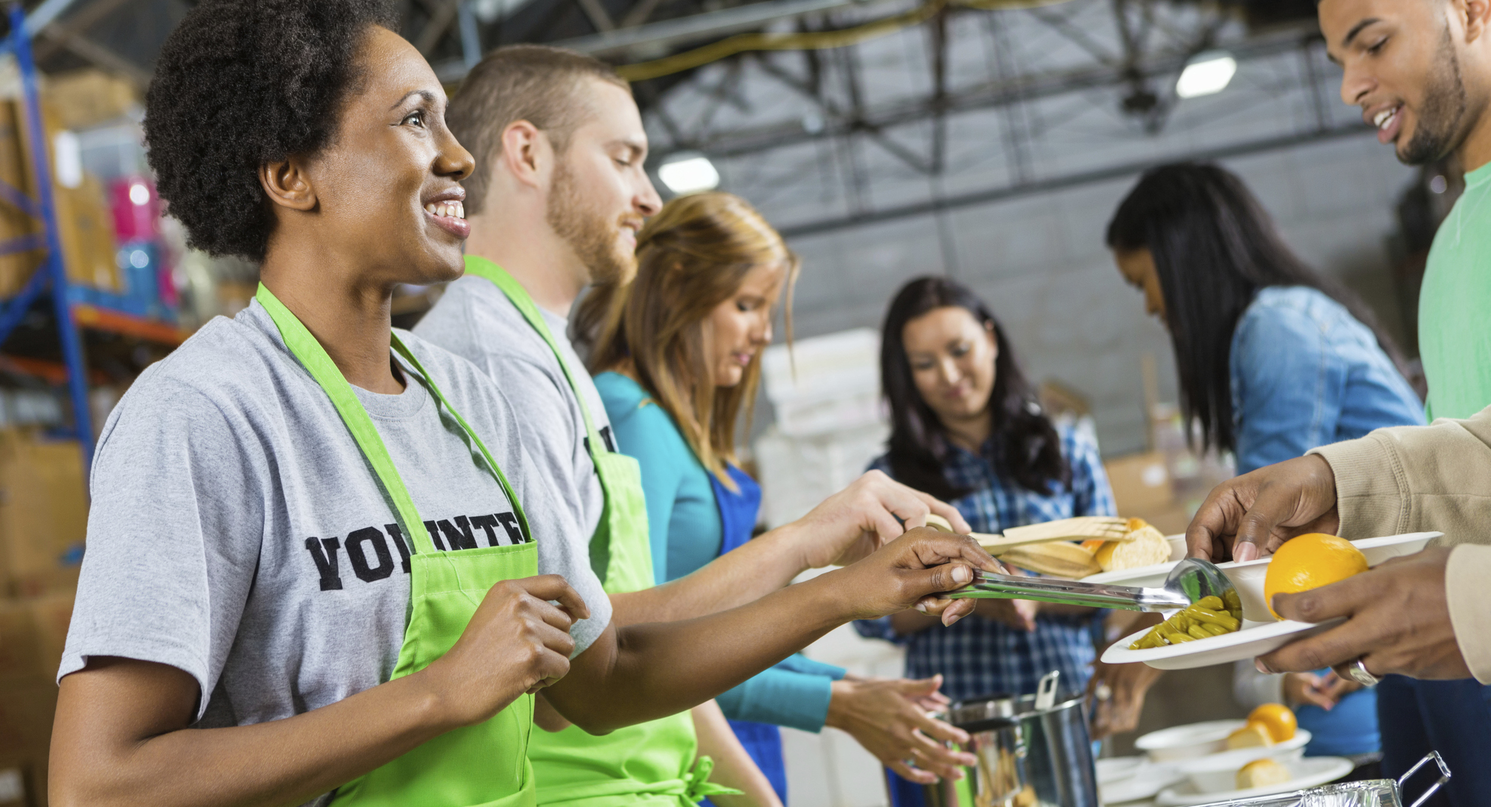
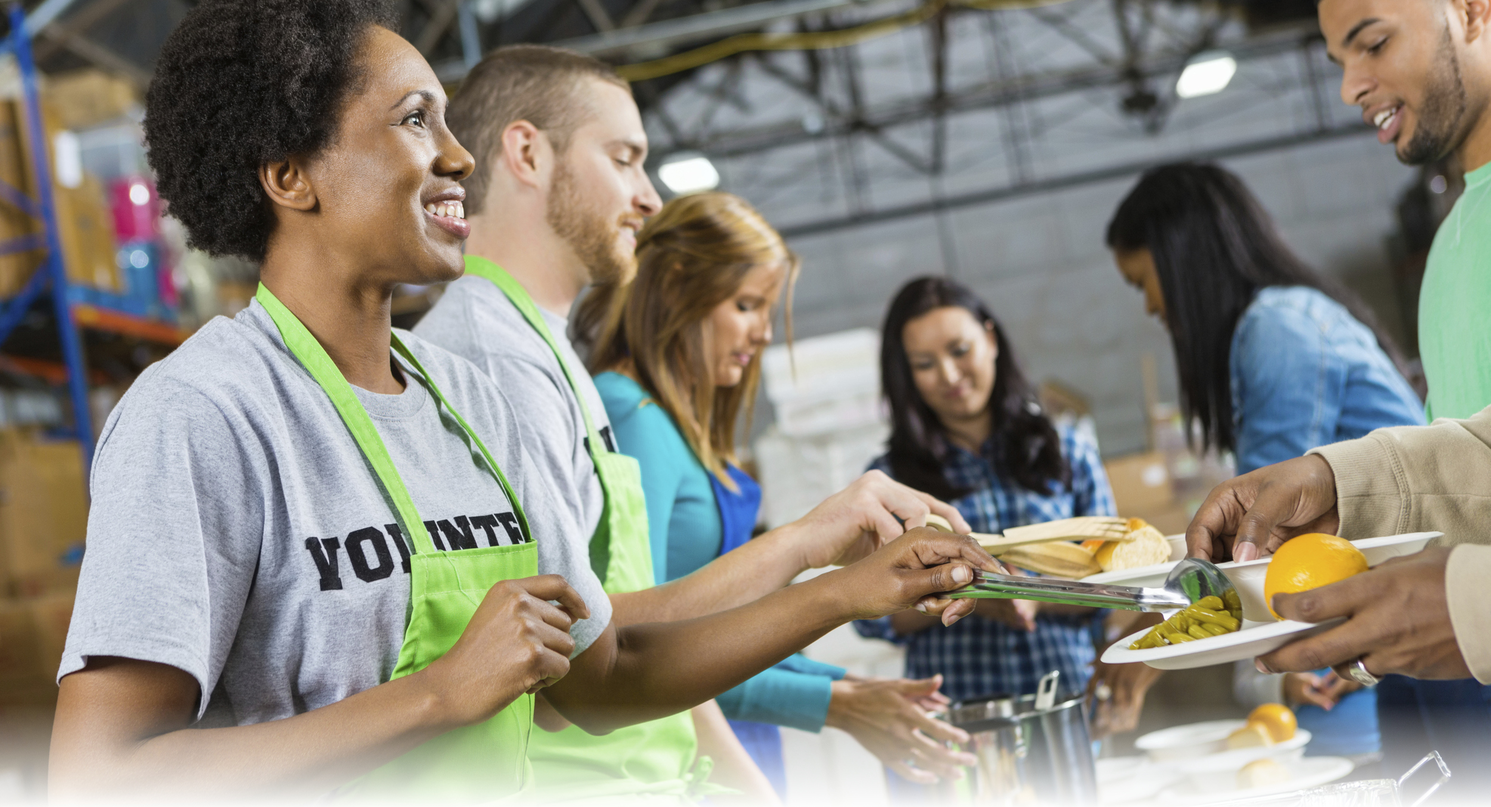
Added gradient to main image, and inverted text colour and added some drop shadows.

Changed region(s): [[0.0, 0.8692, 1.0, 1.0]]

diff --git a/grayscale-sass/assets/sass/app/_greyscale.scss b/grayscale-sass/assets/sass/app/_greyscale.scss
@@ -7,8 +7,8 @@ body {
   width: 100%;
   height: 100%;
   font-family: $grayscale-body-font-family;
-  color: $grayscale-light;
-  background-color: $grayscale-dark;
+  color: $grayscale-dark;
+  background-color: $grayscale-light;
   -webkit-tap-highlight-color: transparentize($grayscale-light, 0.8);
 }
 
@@ -67,6 +67,8 @@ a {
 
   .navbar-brand {
     font-weight: 700;
+    color: $grayscale-light;
+    width: 500px;
 
     &:focus {
       outline: none;
@@ -85,7 +87,7 @@ a {
   }
 
   a {
-    color: $grayscale-light;
+    color: $grayscale-dark;
   }
 
   .nav {
@@ -101,6 +103,7 @@ a {
         -webkit-transition: background .3s ease-in-out;
         -moz-transition: background .3s ease-in-out;
         transition: background .3s ease-in-out;
+        color: $grayscale-light;
 
         &:hover,
         &:focus,
@@ -123,6 +126,7 @@ a {
     -webkit-transition: background .5s ease-in-out,padding .5s ease-in-out;
     -moz-transition: background .5s ease-in-out,padding .5s ease-in-out;
     transition: background .5s ease-in-out,padding .5s ease-in-out;
+
   }
 
   .top-nav-collapse {
@@ -142,7 +146,7 @@ a {
   padding: 100px 0;
   text-align: center;
   color: $grayscale-light;
-  background: $grayscale-dark url(../images/intro-bg.jpg) no-repeat scroll bottom center;
+  background: $grayscale-light url(../images/intro-bg.jpg) no-repeat scroll bottom center;
   -webkit-background-size: cover;
   -moz-background-size: cover;
   background-size: cover;
@@ -154,10 +158,12 @@ a {
 
     .brand-heading {
       font-size: 40px;
+      text-shadow: 2px 2px #222222;
     }
 
     .intro-text {
-      font-size: 18px;
+      font-size: 28px;
+      text-shadow: 1px 1px #222222;
     }
   }
 }
@@ -216,7 +222,7 @@ a {
   width: 100%;
   padding: 50px 0;
   color: $grayscale-light;
-  background: $grayscale-dark url(../images/downloads-bg.jpg) no-repeat scroll center center;
+  background: $grayscale-light url(../images/downloads-bg.jpg) no-repeat scroll center center;
   -webkit-background-size: cover;
   -moz-background-size: cover;
   background-size: cover;

diff --git a/db/schema.rb b/db/schema.rb
@@ -1,0 +1,24 @@
+# encoding: UTF-8
+# This file is auto-generated from the current state of the database. Instead
+# of editing this file, please use the migrations feature of Active Record to
+# incrementally modify your database, and then regenerate this schema definition.
+#
+# Note that this schema.rb definition is the authoritative source for your
+# database schema. If you need to create the application database on another
+# system, you should be using db:schema:load, not running all the migrations
+# from scratch. The latter is a flawed and unsustainable approach (the more migrations
+# you'll amass, the slower it'll run and the greater likelihood for issues).
+#
+# It's strongly recommended that you check this file into your version control system.
+
+ActiveRecord::Schema.define(version: 20160117043008) do
+
+  create_table "users", force: :cascade do |t|
+    t.string   "name"
+    t.string   "email"
+    t.string   "password_digest"
+    t.datetime "created_at",      null: false
+    t.datetime "updated_at",      null: false
+  end
+
+end
